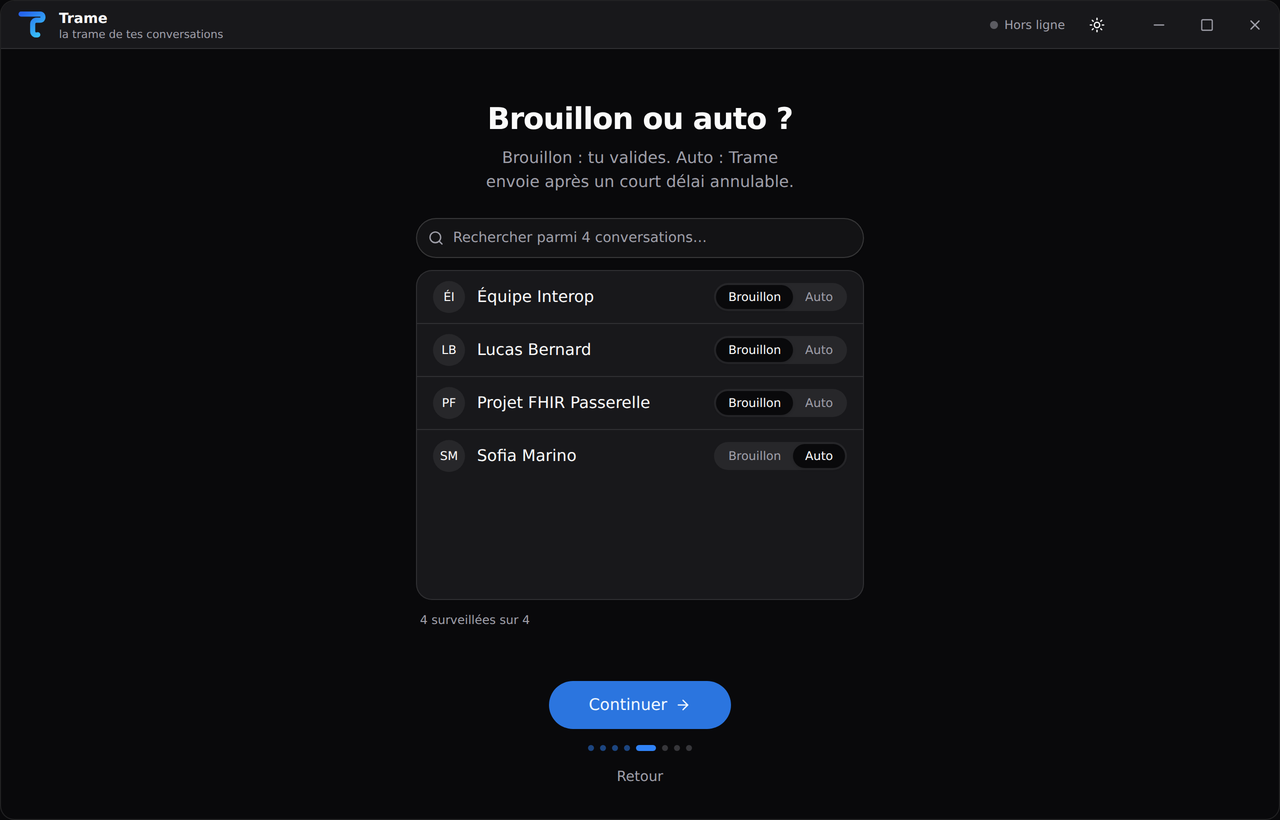
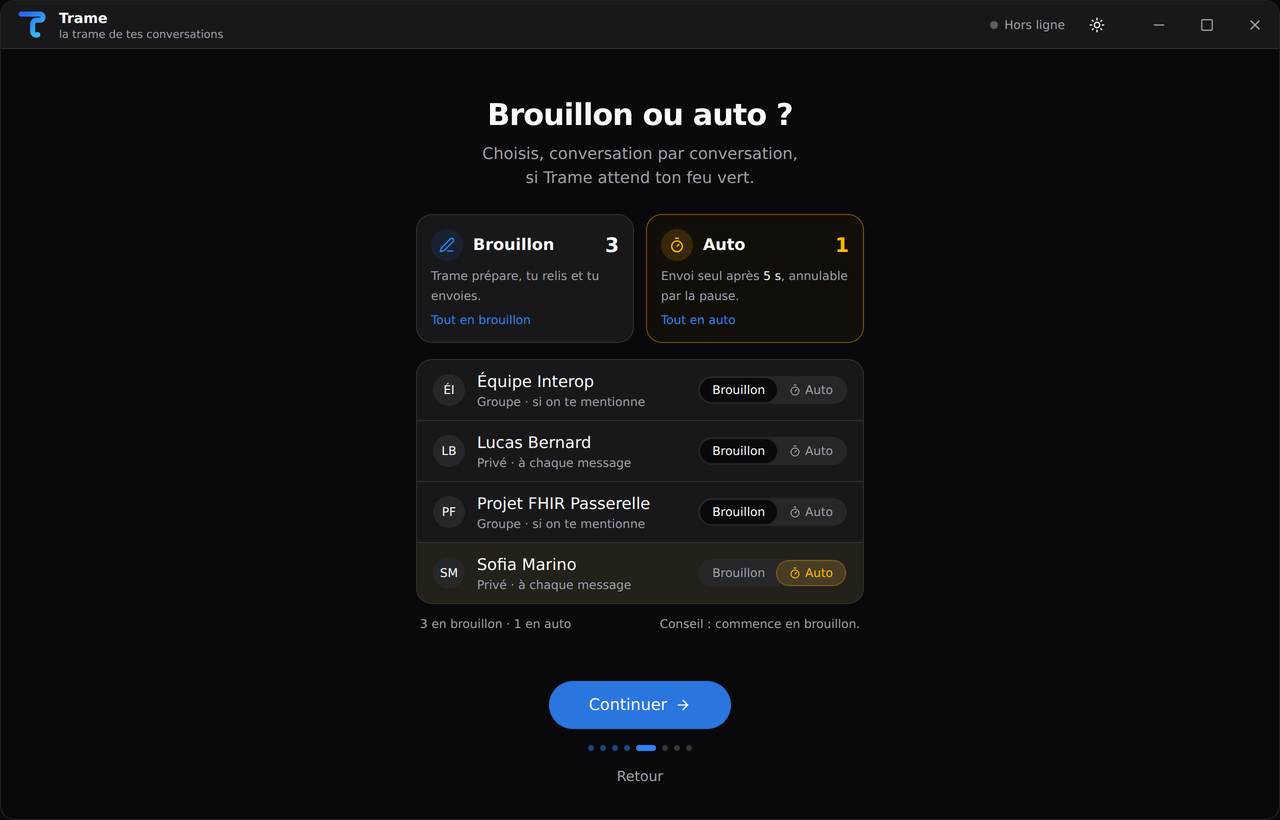
Wizard « Brouillon ou auto ? » : écran plus explicite
- deux cartes qui expliquent chaque mode, avec compteur animé, délai réel
  lu dans les réglages et bascule « Tout en brouillon / Tout en auto »
- chaque conversation indique ce qui déclenche une réponse
  (privé : chaque message ; groupe/canal : si on te mentionne)
- Auto distingué visuellement partout (segment ambré + minuteur)
- liste partagée : recherche et hauteur fixe seulement au-delà de 6
  conversations, pied personnalisable ; correction du débordement
  horizontal (ScrollArea Radix) qui coupait les contrôles à droite

diff --git a/ui/src/wizard/Wizard.tsx b/ui/src/wizard/Wizard.tsx
@@ -1,6 +1,6 @@
 import { useEffect, useRef, useState } from "react";
 import { AnimatePresence, motion, useAnimationControls } from "motion/react";
-import { ArrowRight, Check, FileText, GitBranch, Loader2, RotateCcw, UploadCloud } from "lucide-react";
+import { ArrowRight, Check, FileText, GitBranch, Loader2, PenLine, RotateCcw, Timer, UploadCloud } from "lucide-react";
 import { Button } from "@/components/ui/button";
 import { Switch } from "@/components/ui/switch";
 import { BrainPicker, BrainId } from "@/components/BrainPicker";
@@ -35,6 +35,7 @@ export function Wizard({ trame, onStart, onFinish }: { trame: Trame; onStart?: (
   const [convs, setConvs] = useState<WatchEntity[]>(source);
   const touched = useRef(false);
   const [github, setGithub] = useState(true);
+  const [countdown, setCountdown] = useState(5);
   const [soul, setSoul] = useState<Soul | null>(null);
   const [activation, setActivation] = useState<"idle" | "run" | "ok" | "error">("idle");
   const [steps, setSteps] = useState<ActivationStep[]>([]);
@@ -53,6 +54,7 @@ export function Wizard({ trame, onStart, onFinish }: { trame: Trame; onStart?: (
       if (!live || !res.ok || touched.current) return;
       setBrain(res.settings.brain);
       setGithub(res.settings.github.enabled);
+      setCountdown(res.settings.safety.countdownSeconds);
     });
     return () => {
       live = false;
@@ -64,6 +66,9 @@ export function Wizard({ trame, onStart, onFinish }: { trame: Trame; onStart?: (
     setConvs(fn);
   };
   const watched = convs.filter((c) => c.watch);
+  const autoCount = watched.filter((c) => c.mode === "auto").length;
+  const draftCount = watched.length - autoCount;
+  const setModeAll = (mode: "draft" | "auto") => edit((cs) => cs.map((c) => (c.watch ? { ...c, mode } : c)));
   const toggleWatch = (id: string) => edit((cs) => cs.map((c) => (c.threadId === id ? { ...c, watch: !c.watch } : c)));
   const setWatchMany = (ids: string[], watch: boolean) => {
     const set = new Set(ids);
@@ -227,19 +232,38 @@ export function Wizard({ trame, onStart, onFinish }: { trame: Trame; onStart?: (
     },
     {
       title: "Brouillon ou auto ?",
-      sub: "Brouillon : tu valides. Auto : Trame envoie après un court délai annulable.",
+      sub: "Choisis, conversation par conversation, si Trame attend ton feu vert.",
       body: (
-        <ConversationList
-          items={watched}
-          filters={false}
-          renderRow={(c) => (
-            <div className="flex items-center gap-3 px-4 py-2.5">
-              <InitialsAvatar name={c.displayName} className="size-8" />
-              <span className="flex-1 truncate">{c.displayName}</span>
-              <Segment value={c.mode} onChange={(v) => setMode(c.threadId, v)} />
-            </div>
-          )}
-        />
+        <div className="flex w-full flex-col gap-4">
+          <div className="grid grid-cols-2 gap-3 text-left">
+            <ModeCard mode="draft" count={draftCount} total={watched.length} countdown={countdown} onAll={() => setModeAll("draft")} />
+            <ModeCard mode="auto" count={autoCount} total={watched.length} countdown={countdown} onAll={() => setModeAll("auto")} />
+          </div>
+          <ConversationList
+            items={watched}
+            filters={false}
+            footer={
+              <span className="flex w-full justify-between gap-3">
+                <span className="tabular-nums">
+                  {draftCount} en brouillon · {autoCount} en auto
+                </span>
+                <span>Conseil : commence en brouillon.</span>
+              </span>
+            }
+            renderRow={(c) => (
+              <div className={cn("flex items-center gap-3 px-4 py-2.5 transition-colors duration-300", c.mode === "auto" && "bg-warning/[0.05]")}>
+                <InitialsAvatar name={c.displayName} className="size-8" />
+                <div className="flex min-w-0 flex-1 flex-col text-left">
+                  <span className="truncate">{c.displayName}</span>
+                  <span className="truncate text-xs text-muted-foreground">{SURFACE_HINT[c.surface]}</span>
+                </div>
+                <div className="shrink-0">
+                  <Segment value={c.mode} onChange={(v) => setMode(c.threadId, v)} />
+                </div>
+              </div>
+            )}
+          />
+        </div>
       ),
     },
     {
@@ -488,5 +512,73 @@ function SoulDrop({ value, onChange }: { value: Soul | null; onChange: (s: Soul)
         </AnimatePresence>
       </motion.div>
     </motion.div>
+  );
+}
+
+const SURFACE_HINT = {
+  dm: "Privé · à chaque message",
+  group: "Groupe · si on te mentionne",
+  channel: "Canal · si on te mentionne",
+} as const;
+
+function ModeCard({
+  mode,
+  count,
+  total,
+  countdown,
+  onAll,
+}: {
+  mode: "draft" | "auto";
+  count: number;
+  total: number;
+  countdown: number;
+  onAll: () => void;
+}) {
+  const auto = mode === "auto";
+  const allSet = total > 0 && count === total;
+  return (
+    <div
+      className={cn(
+        "flex flex-col gap-1.5 rounded-2xl border bg-card p-3.5 transition-colors duration-300",
+        auto && count > 0 && "border-warning/40 bg-warning/[0.04]"
+      )}
+    >
+      <div className="flex items-center gap-2.5">
+        <span className={cn("grid size-8 place-items-center rounded-full", auto ? "bg-warning/15 text-warning" : "bg-primary/10 text-primary")}>
+          {auto ? <Timer className="size-4" /> : <PenLine className="size-4" />}
+        </span>
+        <span className="font-semibold">{auto ? "Auto" : "Brouillon"}</span>
+        <span className="relative ml-auto h-7 overflow-hidden">
+          <AnimatePresence mode="popLayout" initial={false}>
+            <motion.span
+              key={count}
+              initial={{ y: 14, opacity: 0 }}
+              animate={{ y: 0, opacity: 1 }}
+              exit={{ y: -14, opacity: 0 }}
+              transition={pop}
+              className={cn("block text-xl font-semibold tabular-nums", auto && count > 0 && "text-warning")}
+            >
+              {count}
+            </motion.span>
+          </AnimatePresence>
+        </span>
+      </div>
+      <p className="text-xs leading-relaxed text-muted-foreground">
+        {auto ? (
+          <>
+            Envoi seul après <strong className="font-medium text-foreground">{countdown} s</strong>, annulable par la pause.
+          </>
+        ) : (
+          "Trame prépare, tu relis et tu envoies."
+        )}
+      </p>
+      <button
+        onClick={onAll}
+        disabled={allSet}
+        className="mt-auto self-start text-xs font-medium text-primary transition-opacity hover:underline disabled:pointer-events-none disabled:opacity-40"
+      >
+        {allSet ? `Toutes en ${auto ? "auto" : "brouillon"}` : `Tout en ${auto ? "auto" : "brouillon"}`}
+      </button>
+    </div>
   );
 }

diff --git a/ui/src/components/kit.tsx b/ui/src/components/kit.tsx
@@ -2,7 +2,7 @@
    pour le wizard ET le panneau. */
 import { useId } from "react";
 import { AnimatePresence, motion } from "motion/react";
-import { Check, Loader2, X } from "lucide-react";
+import { Check, Loader2, Timer, X } from "lucide-react";
 import { cn } from "@/lib/utils";
 
 export const spring = { type: "spring", stiffness: 500, damping: 32 } as const;
@@ -42,9 +42,11 @@ export function SectionLabel({ children }: { children: React.ReactNode }) {
   return <h2 className="mb-2 ml-1 text-sm font-medium text-muted-foreground">{children}</h2>;
 }
 
+type SegmentOption<T> = { value: T; label: string; tone?: "auto" };
+
 const MODE_OPTIONS = [
   { value: "draft", label: "Brouillon" },
-  { value: "auto", label: "Auto" },
+  { value: "auto", label: "Auto", tone: "auto" },
 ] as const;
 
 /** Choix segmenté (Brouillon / Auto par défaut) : le curseur glisse sous l'option choisie. */
@@ -52,12 +54,12 @@ export function Segment<T extends string = "draft" | "auto">({
   value,
   onChange,
   disabled,
-  options = MODE_OPTIONS as unknown as readonly { value: T; label: string }[],
+  options = MODE_OPTIONS as unknown as readonly SegmentOption<T>[],
 }: {
   value: T;
   onChange: (v: T) => void;
   disabled?: boolean;
-  options?: readonly { value: T; label: string }[];
+  options?: readonly SegmentOption<T>[];
 }) {
   const id = useId();
   return (
@@ -68,14 +70,28 @@ export function Segment<T extends string = "draft" | "auto">({
           disabled={disabled}
           onClick={() => onChange(o.value)}
           className={cn(
-            "relative rounded-full px-3 py-1 transition-colors",
-            value === o.value ? "text-foreground" : "text-muted-foreground hover:text-foreground"
+            "relative rounded-full px-3 py-1 transition-colors duration-200",
+            value === o.value
+              ? o.tone === "auto"
+                ? "text-warning"
+                : "text-foreground"
+              : "text-muted-foreground hover:text-foreground"
           )}
         >
           {value === o.value && (
-            <motion.span layoutId={`segment-${id}`} transition={spring} className="absolute inset-0 rounded-full bg-background shadow-sm" />
+            <motion.span
+              layoutId={`segment-${id}`}
+              transition={spring}
+              className={cn(
+                "absolute inset-0 rounded-full shadow-sm transition-colors duration-200",
+                o.tone === "auto" ? "bg-warning/15 ring-1 ring-warning/40" : "bg-background"
+              )}
+            />
           )}
-          <span className="relative">{o.label}</span>
+          <span className="relative flex items-center gap-1">
+            {o.tone === "auto" && <Timer className="size-3" />}
+            {o.label}
+          </span>
         </button>
       ))}
     </div>

diff --git a/ui/src/components/ConversationList.tsx b/ui/src/components/ConversationList.tsx
@@ -18,6 +18,7 @@ const FILTERS: { id: Filter; label: string }[] = [
 ];
 
 const sortKey = (c: WatchEntity) => c.displayName.replace(/^#/, "");
+const FEW = 6;
 const norm = (s: string) => s.normalize("NFD").replace(/[̀-ͯ]/g, "").toLowerCase();
 
 /** Liste de conversations à grande échelle : recherche, filtres, sélection en masse,
@@ -28,13 +29,16 @@ export function ConversationList({
   onBulk,
   filters = true,
   className = "h-[40vh]",
+  footer,
 }: {
   items: WatchEntity[];
   renderRow: (c: WatchEntity) => React.ReactNode;
   onBulk?: (ids: string[], watch: boolean) => void;
   filters?: boolean;
   className?: string;
+  footer?: React.ReactNode;
 }) {
+  const few = items.length <= FEW;
   const id = useId();
   const [query, setQuery] = useState("");
   const [filter, setFilter] = useState<Filter>("all");
@@ -66,6 +70,7 @@ export function ConversationList({
 
   return (
     <div className="flex w-full flex-col gap-3 text-left">
+      {!few && (
       <div className="relative">
         <Search className="pointer-events-none absolute left-3 top-1/2 size-4 -translate-y-1/2 text-muted-foreground" />
         <Input
@@ -89,8 +94,9 @@ export function ConversationList({
           )}
         </AnimatePresence>
       </div>
+      )}
 
-      {filters && (
+      {filters && !few && (
         <div className="flex flex-wrap gap-1">
           {FILTERS.map((f) => (
             <button
@@ -113,7 +119,7 @@ export function ConversationList({
       )}
 
       <GroupList>
-        <ScrollArea className={className}>
+        <ScrollArea className={cn("[&_[data-radix-scroll-area-viewport]>div]:!block", !few && className)}>
           <div className="divide-y divide-border">
             {visible.map((c) => (
               <div key={c.threadId}>{renderRow(c)}</div>
@@ -128,9 +134,11 @@ export function ConversationList({
       </GroupList>
 
       <div className="flex items-center justify-between px-1 text-xs text-muted-foreground">
-        <span className="tabular-nums">
-          {watchedTotal} surveillée{watchedTotal > 1 ? "s" : ""} sur {items.length}
-        </span>
+        {footer ?? (
+          <span className="tabular-nums">
+            {watchedTotal} surveillée{watchedTotal > 1 ? "s" : ""} sur {items.length}
+          </span>
+        )}
         {onBulk && visible.length > 0 && (
           <button
             onClick={() => onBulk(visible.map((c) => c.threadId), !allVisibleWatched)}
